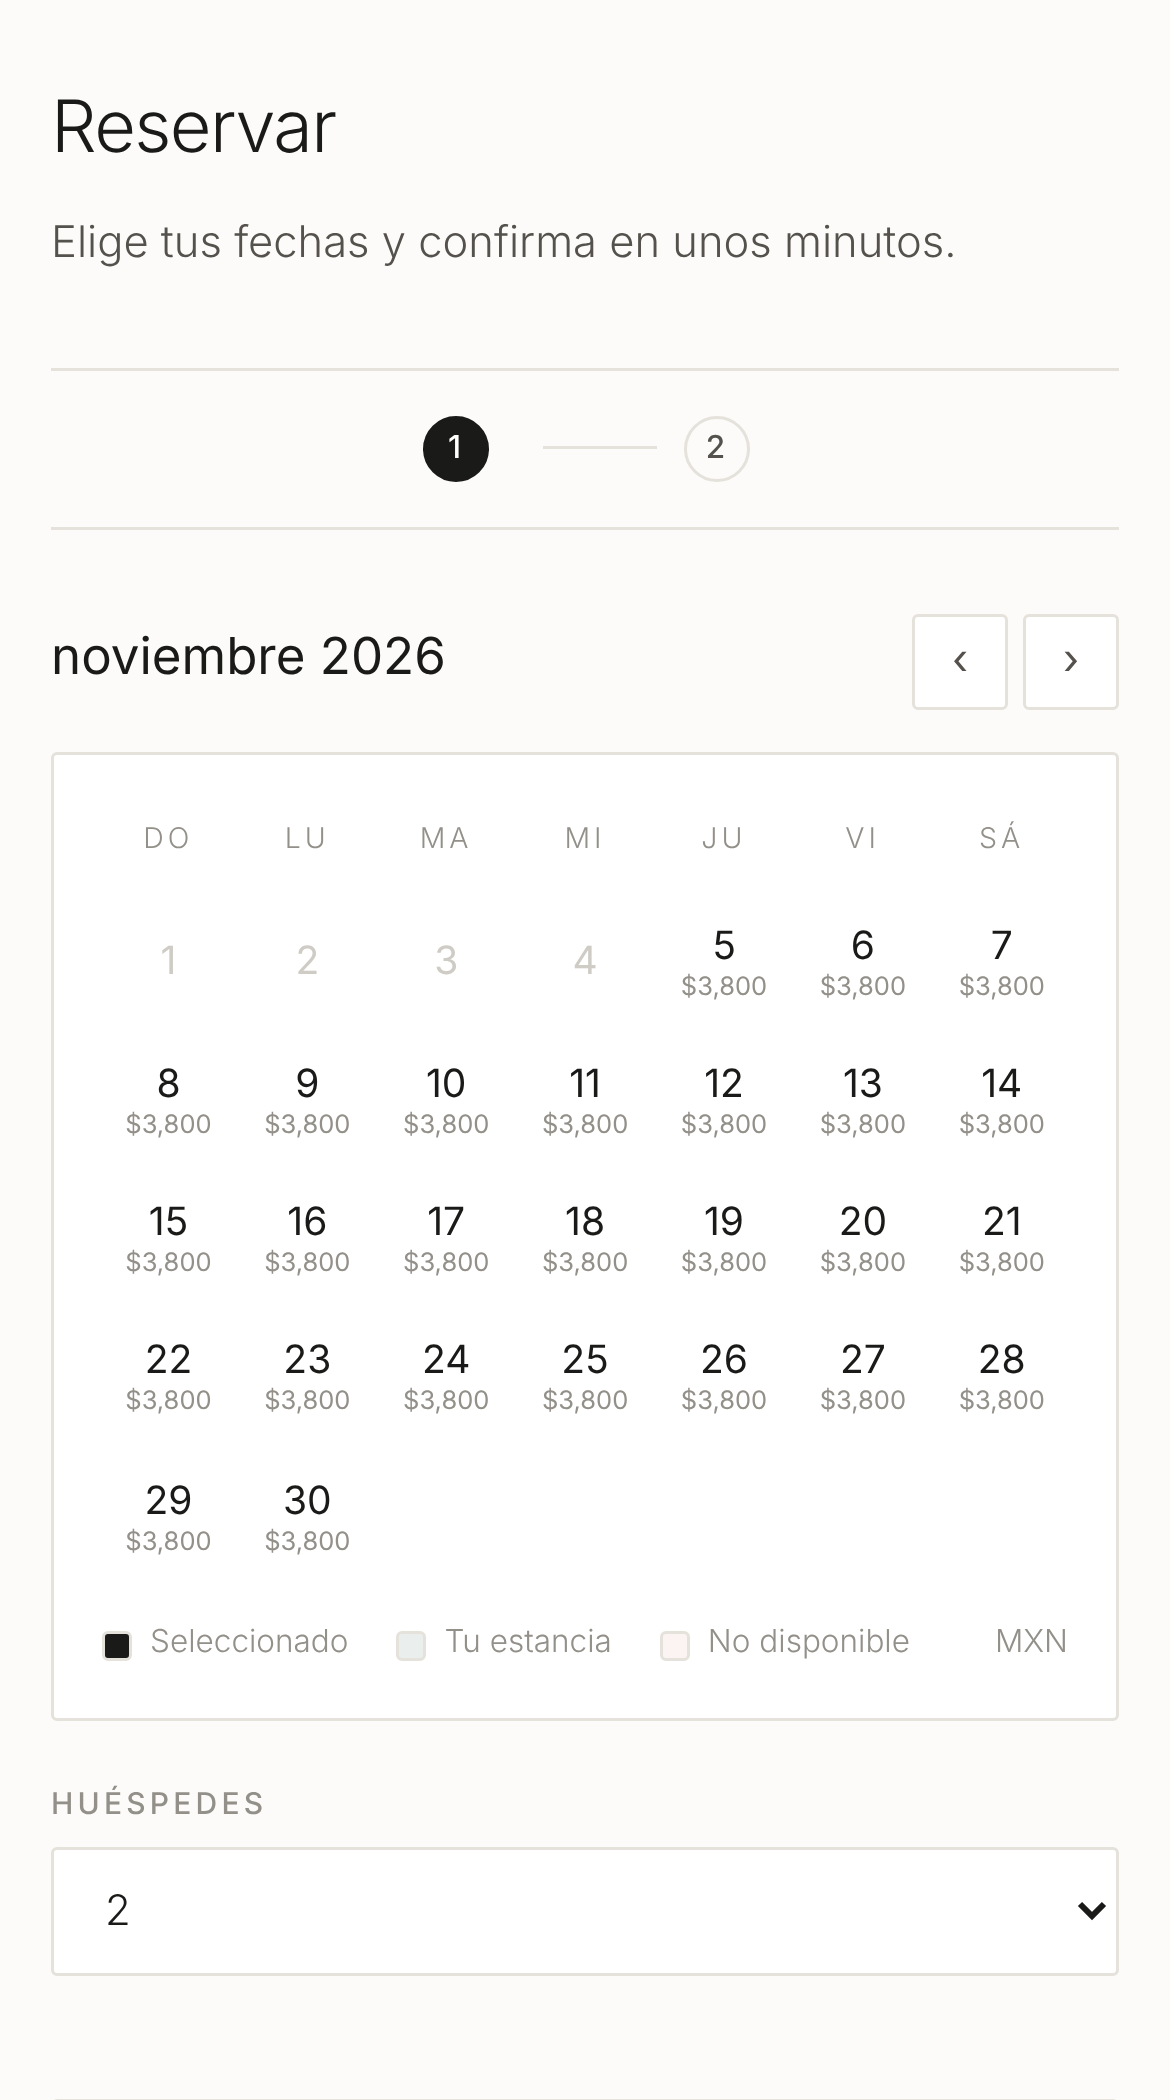
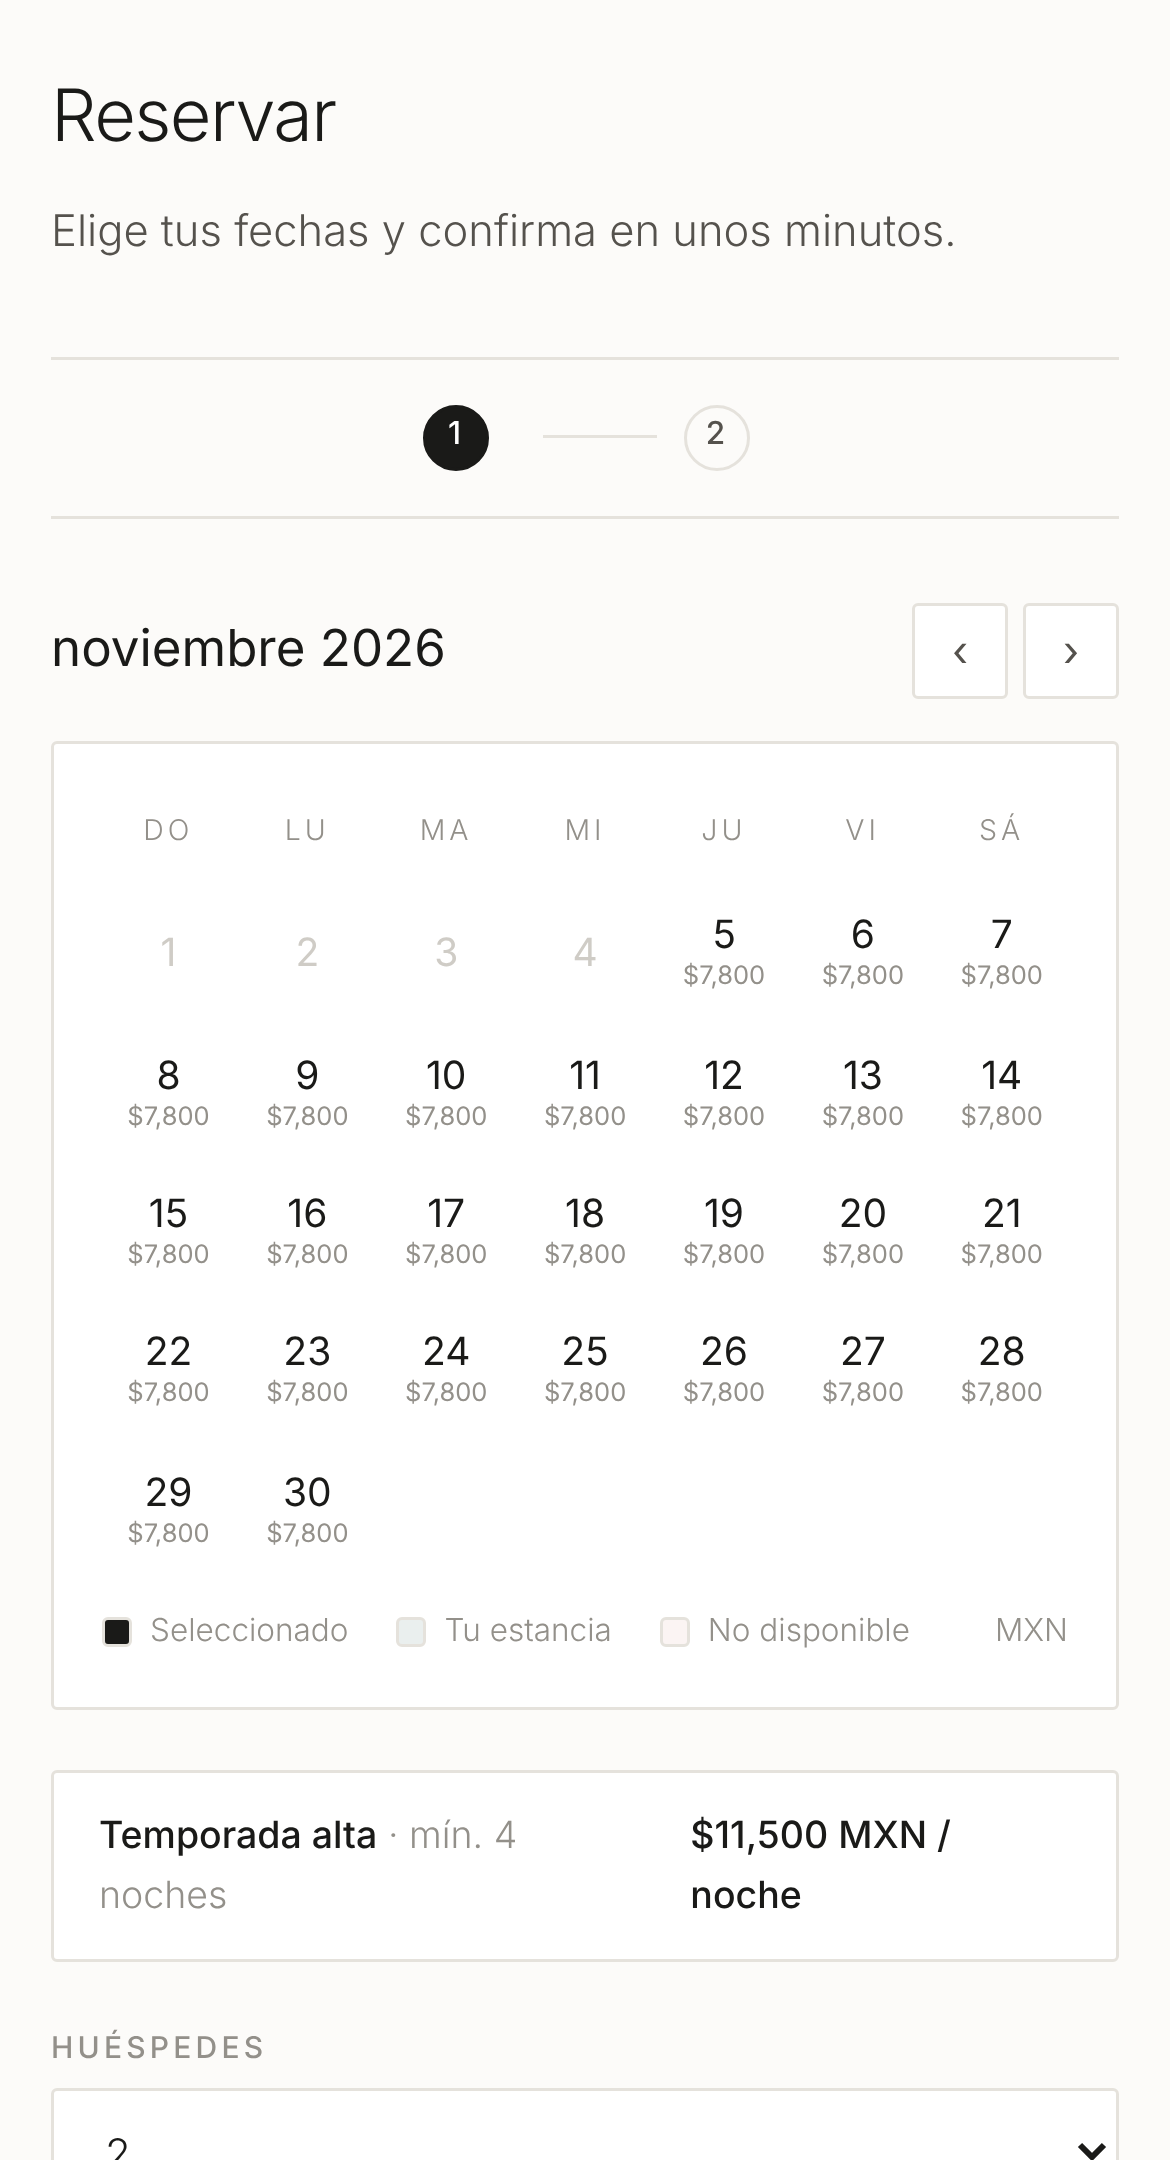
Un demo de verdad, con fotos de verdad
Las capturas de la landing eran degradados inventados y se notaba: nadie
compra una página de reservas viendo manchas de color donde deberían ir
las fotos de una casa.

Ahora hay un demo propio en demo/, Casa Candelabros, montado con la
plantilla y el motor compartido como cualquier cliente, y con fotografía
real de la costa de Oaxaca sacada de los propios archivos del estudio.
Lleva temporada alta de diciembre, anticipo del 50% y políticas en los
dos idiomas, para que se vea el motor haciendo algo y no una ficha vacía.

Las siete fotos van a 1600 px y comprimidas a menos de 300 KB cada una:
un demo que presume de rápido no puede pesar tres megas.

La landing cambia sus capturas por las de este demo, en escritorio y en
móvil, y añade un enlace para abrirlo y reservar de verdad. Vale más
dejar probar que describir.

El demo queda en modo demostración: no cobra.

Claude-Session: https://claude.ai/code/session_01WRdg1RZLBt6KayTaKRuFze

diff --git a/demo/index.html b/demo/index.html
@@ -1,0 +1,20 @@
+<!DOCTYPE html>
+<html lang="es">
+<head>
+<meta charset="UTF-8">
+<meta name="viewport" content="width=device-width,initial-scale=1,viewport-fit=cover">
+<meta name="robots" content="noindex,nofollow">
+<title>Reservar</title>
+<link rel="icon" href="data:,">
+<link rel="preconnect" href="https://fonts.googleapis.com">
+<link rel="preconnect" href="https://fonts.gstatic.com" crossorigin>
+<link id="fontLink" rel="stylesheet" href="https://fonts.googleapis.com/css2?family=Inter:wght@300;400;500;600&display=swap">
+<link rel="stylesheet" href="https://d1eg0dev.github.io/booking-engine/motor.css">
+</head>
+<body>
+<div class="wrap" id="app"><div class="load">…</div></div>
+<div class="mod" id="mod"><div class="modbox"><div id="policy"></div><button class="cl" onclick="closeMod()" id="closeBtn">OK</button></div></div>
+<script src="https://d1eg0dev.github.io/booking-engine/pricing.js"></script>
+<script src="https://d1eg0dev.github.io/booking-engine/motor.js"></script>
+</body>
+</html>

diff --git a/landing/index.html b/landing/index.html
@@ -240,8 +240,11 @@ footer{padding:56px 0;border-top:1px solid var(--g200)}
           <source media="(max-width:640px)" srcset="muestra-movil.png" width="1170" height="2100">
           <img src="muestra.png" alt="Calendario con el precio de cada noche y, al lado, el resumen de la estancia con el total." width="2240" height="1520" loading="lazy">
         </picture>
-        <figcaption>Página de ejemplo · fotos de muestra</figcaption>
+        <figcaption>Casa Candelabros · página de ejemplo</figcaption>
       </figure>
+      <div class="hero-actions">
+        <a class="btn btn-ghost" href="../demo/" target="_blank" rel="noopener">Abrir el ejemplo y reservar</a>
+      </div>
     </div>
   </section>
 
